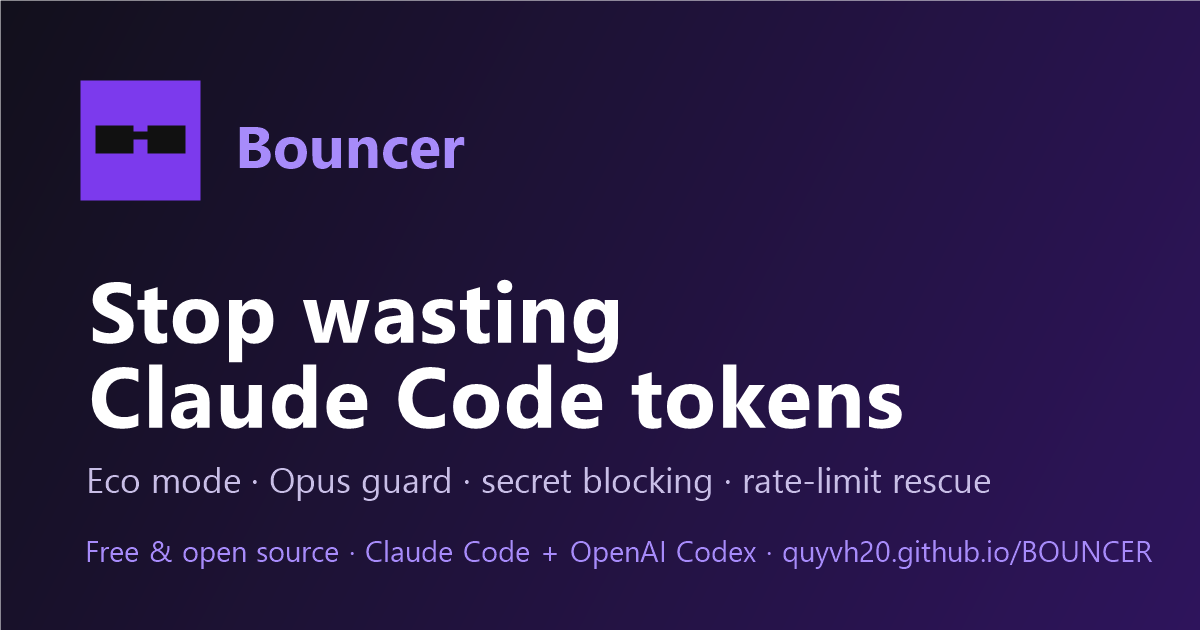
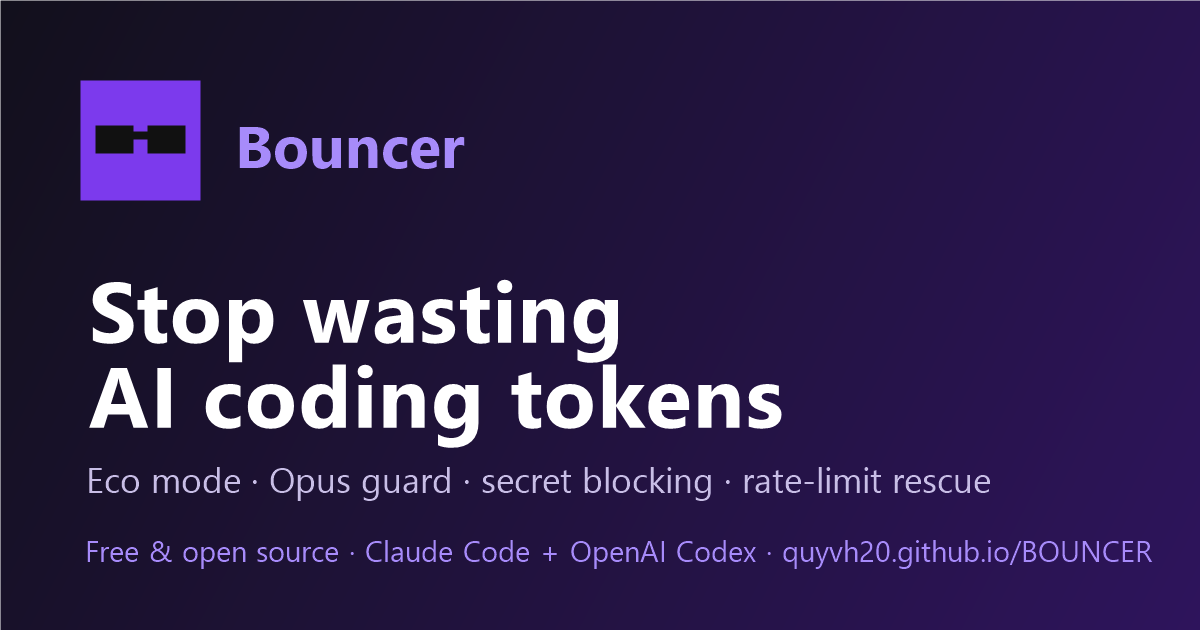
docs: brand for Claude Code and Codex, not Claude only
Hero 'Stop wasting AI coding tokens', page titles '· Bouncer', home title
and share image name both tools.

Changed region(s): [[0.0617, 0.573, 0.7708, 0.7238]]

diff --git a/docs/.vitepress/seo.ts b/docs/.vitepress/seo.ts
@@ -5,7 +5,7 @@ import type { HeadConfig, PageData, SiteConfig } from "vitepress";
 
 export const SITE_URL = "https://quyvh20.github.io/BOUNCER/";
 export const REPO_URL = "https://github.com/quyvh20/BOUNCER";
-export const SITE_TITLE = "Bouncer: save Claude Code tokens and quota";
+export const SITE_TITLE = "Bouncer: save tokens and quota in Claude Code and Codex";
 export const DESCRIPTION =
   "Bouncer is a free, open-source hook for Claude Code and OpenAI Codex. It stops prompts that waste tokens (Opus on small tasks, bloated context, leaked secrets, huge pastes, vague asks) and rescues your session at the 5-hour limit.";
 export const OG_IMAGE = `${SITE_URL}og.png`;
@@ -68,7 +68,7 @@ export function jsonLdFor(page: PageData, srcDir: string): object[] {
         "@type": "SoftwareApplication",
         "@id": `${SITE_URL}#software`,
         name: "Bouncer",
-        alternateName: "Bouncer for Claude Code",
+        alternateName: ["Bouncer for Claude Code", "Bouncer for OpenAI Codex"],
         applicationCategory: "DeveloperApplication",
         applicationSubCategory: "Claude Code hook",
         operatingSystem: "Windows, macOS, Linux",
@@ -136,7 +136,7 @@ export function jsonLdFor(page: PageData, srcDir: string): object[] {
     out.push({
       "@context": "https://schema.org",
       "@type": "HowTo",
-      name: "How to install Bouncer for Claude Code",
+      name: "How to install Bouncer for Claude Code and Codex",
       description: page.description,
       totalTime: "PT2M",
       tool: ["Node.js 18.17+", "git", "Claude Code or OpenAI Codex"],
@@ -152,7 +152,7 @@ export function jsonLdFor(page: PageData, srcDir: string): object[] {
 export function headFor(page: PageData, srcDir: string): HeadConfig[] {
   const path = page.relativePath.replace(/(^|\/)index\.md$/, "$1").replace(/\.md$/, "");
   const url = `${SITE_URL}${path}`;
-  const title = path === "" ? SITE_TITLE : `${page.title} · Bouncer for Claude Code`;
+  const title = path === "" ? SITE_TITLE : `${page.title} · Bouncer`;
   const description = page.description || DESCRIPTION;
   const head: HeadConfig[] = [
     ["link", { rel: "canonical", href: url }],

diff --git a/docs/.vitepress/config.ts b/docs/.vitepress/config.ts
@@ -3,7 +3,7 @@ import { DESCRIPTION, OG_IMAGE, REPO_URL, SITE_URL, headFor, writeLlmsFiles } fr
 
 export default defineConfig({
   title: "Bouncer",
-  titleTemplate: ":title · Bouncer for Claude Code",
+  titleTemplate: ":title · Bouncer",
   description: DESCRIPTION,
   lang: "en-US",
   base: "/BOUNCER/",
@@ -29,7 +29,7 @@ export default defineConfig({
     ["meta", { property: "og:image", content: OG_IMAGE }],
     ["meta", { property: "og:image:width", content: "1200" }],
     ["meta", { property: "og:image:height", content: "630" }],
-    ["meta", { property: "og:image:alt", content: "Bouncer: stop wasting Claude Code tokens" }],
+    ["meta", { property: "og:image:alt", content: "Bouncer: stop wasting AI coding tokens in Claude Code and Codex" }],
     ["meta", { name: "twitter:card", content: "summary_large_image" }],
     ["meta", { name: "twitter:image", content: OG_IMAGE }],
   ],

diff --git a/docs/index.md b/docs/index.md
@@ -1,12 +1,12 @@
 ---
 layout: home
-title: Save Claude Code Tokens and Quota
+title: Save Tokens in Claude Code and Codex
 description: Bouncer is a free, open-source hook for Claude Code and OpenAI Codex. It stops prompts that waste tokens (Opus on small tasks, bloated context, leaked secrets, huge pastes, vague asks) and rescues your session at the 5-hour limit.
 
 hero:
   name: Bouncer
-  text: Stop wasting Claude Code tokens
-  tagline: Checks every prompt before it is sent, stops the ones that waste your quota, and tells you exactly what to do instead. Free, open source, works offline, never touches your code.
+  text: Stop wasting AI coding tokens
+  tagline: For Claude Code and OpenAI Codex. Checks every prompt before it is sent, stops the ones that waste your quota, and tells you exactly what to do instead. Free, open source, works offline, never touches your code.
   actions:
     - theme: brand
       text: Install in 1 minute
